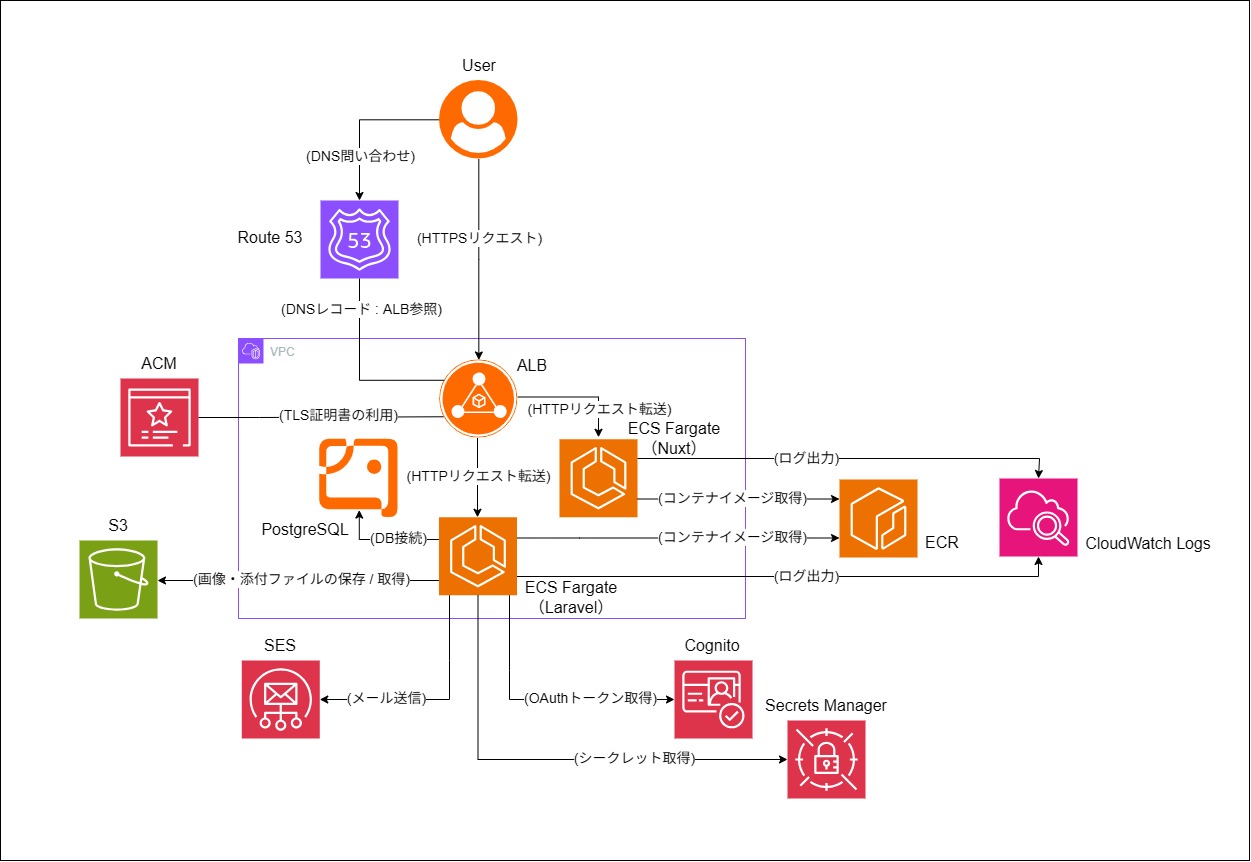
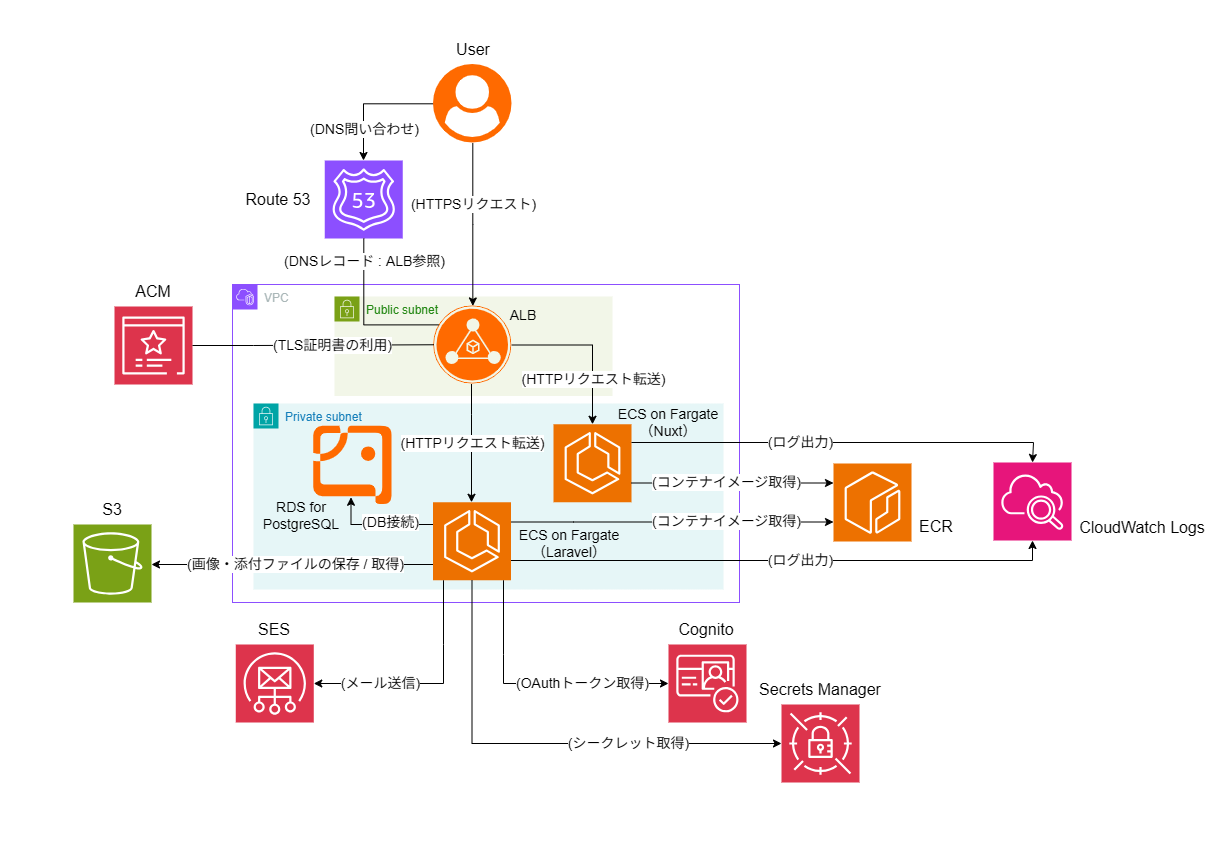
IaCおよびCI/CDに関する説明の追加

Changed region(s): [[0.0617, 0.0306, 0.9878, 0.9494], [0.9878, 0.98, 1.0, 1.0]]

diff --git a/README.md b/README.md
@@ -8,6 +8,8 @@
 - [主要機能](#主要機能)
 - [技術スタック](#技術スタック)
 - [AWSアーキテクチャ](#AWSアーキテクチャ)
+- [TerraformによるIaC化](#TerraformによるIaC化)
+- [CI/CDパイプライン](#CI/CDパイプライン)
 - [セットアップ](#セットアップ)
 - [テスト](#テスト)
 - [ドキュメント](#ドキュメント)
@@ -144,7 +146,7 @@
 |------|------|
 | フロントエンド | Nuxt 4 / Vue 3 / TypeScript / SCSS |
 | バックエンド | Laravel 13 / PHP 8.3 |
-| データベース | PostgreSQL / Amazon RDS for PostgreSQL |
+| データベース | Amazon RDS for PostgreSQL |
 | 認証 | Amazon Cognito |
 | リアルタイム同期 | Laravel Reverb / Laravel Echo / Pusher JS |
 | 実行環境 | Node.js 22 / nginx / PHP-FPM |
@@ -152,6 +154,8 @@
 | コンテナレジストリ | Amazon ECR |
 | コンピューティング | Amazon ECS / AWS Fargate |
 | ネットワーク | Amazon VPC / Application Load Balancer |
+| IaC | Terraform |
+| CI / CD | GitHub Actions |
 | DNS | Amazon Route 53 |
 | 証明書 | AWS Certificate Manager |
 | ストレージ | Amazon S3 |
@@ -159,12 +163,175 @@
 | ログ管理 | Amazon CloudWatch Logs |
 | メール配信 | Amazon SES |
 
-
 ---
 
 ## AWSアーキテクチャ
 
 ![AWSアーキテクチャ](_docs/images/aws-architecture.png)
+
+### 設計上のポイント
+
+<table>
+  <thead>
+    <tr>
+      <th>分類</th>
+      <th>設計内容</th>
+      <th>設計理由</th>
+    </tr>
+  </thead>
+  <tbody>
+    <tr>
+      <td rowspan="3">ネットワーク設計</td>
+      <td>VPC 内にパブリックサブネットと<br>プライベートサブネットを配置</td>
+      <td>インターネットからのアクセス経路と<br>内部リソースへの通信経路を分離するため</td>
+    </tr>
+    <tr>
+      <td>パブリックサブネットとプライベートサブネットを<br>2つの AZ に分散</td>
+      <td>単一 AZ の障害による影響を軽減するため</td>
+    </tr>
+    <tr>
+      <td>ALB で HTTPS 通信を受け付け、<br>HTTP 通信は HTTPS にリダイレクト</td>
+      <td>通信を暗号化して<br>安全にアプリケーションへアクセスできるようにするため</td>
+    </tr>
+    <tr>
+      <td rowspan="3">アプリケーション構成</td>
+      <td>Nuxt（フロントエンド）と<br>Laravel（バックエンド）を分離</td>
+      <td>フロントエンドとバックエンドを<br>独立して管理・デプロイできるようにするため</td>
+    </tr>
+    <tr>
+      <td>ECS Fargate でコンテナを実行</td>
+      <td>EC2 インスタンスの管理負担を抑えながら<br>コンテナを実行するため</td>
+    </tr>
+    <tr>
+      <td>ECR でコンテナイメージを管理</td>
+      <td>コンテナイメージを一元管理して<br>ECS へのデプロイに利用するため</td>
+    </tr>
+    <tr>
+      <td rowspan="2">データ管理</td>
+      <td>RDS for PostgreSQL によるデータ管理</td>
+      <td>マネージドサービスを利用して<br>データベースの運用負担を軽減するため</td>
+    </tr>
+    <tr>
+      <td>S3 による画像・添付ファイルの管理</td>
+      <td>画像および添付ファイルを<br>データベースとは分離して管理するため</td>
+    </tr>
+    <tr>
+      <td rowspan="2">認証・認可</td>
+      <td>Amazon Cognito によるユーザー認証</td>
+      <td>ユーザー認証をマネージドサービスに委任して<br>認証機能の実装・運用負担を軽減するため</td>
+    </tr>
+    <tr>
+      <td>Laravel による組織・メンバーシップに基づく認可</td>
+      <td>アプリケーション固有の権限や<br>組織単位のアクセス制御を実現するため</td>
+    </tr>
+    <tr>
+      <td rowspan="5">セキュリティ</td>
+      <td>HTTPS 通信による<br>インターネット経由の通信暗号化</td>
+      <td>通信内容の盗聴や改ざんを防ぐため</td>
+    </tr>
+    <tr>
+      <td>IAM ロールによる<br>AWS リソースへのアクセス制御</td>
+      <td>必要な AWS リソースへのアクセス権限を付与して<br>認証情報を直接管理する必要をなくすため</td>
+    </tr>
+    <tr>
+      <td>Secrets Manager によるシークレット管理</td>
+      <td>認証情報などの機密情報を安全に管理するため</td>
+    </tr>
+    <tr>
+      <td>S3 のパブリックアクセスブロック</td>
+      <td>保存したファイルが意図せず外部公開されることを防ぐため</td>
+    </tr>
+    <tr>
+      <td>SSE-S3 による S3 保存データの暗号化</td>
+      <td>保存データを暗号化して保護するため</td>
+    </tr>
+    <tr>
+      <td>リアルタイム通信</td>
+      <td>Laravel Reverb による WebSocket 通信</td>
+      <td>ユーザー間で更新情報をリアルタイムに共有するため</td>
+    </tr>
+    <tr>
+      <td rowspan="3">可用性設計</td>
+      <td>ALB を2つの AZ にまたがるサブネットに配置</td>
+      <td>単一 AZ の障害による ALB への影響を軽減するため</td>
+    </tr>
+    <tr>
+      <td>ECS はフロントエンド・バックエンドともに<br>各1タスクで運用</td>
+      <td>個人開発の規模に合わせて構成をシンプルに保ち<br>運用・コストの負担を抑えるため</td>
+    </tr>
+    <tr>
+      <td>RDS はシングル AZ 構成</td>
+      <td>マルチ AZ 構成と比較してコストを抑えるため</td>
+    </tr>
+    <tr>
+      <td rowspan="3">監視・データ保護</td>
+      <td>CloudWatch Logs による<br>アプリケーションログの管理</td>
+      <td>アプリケーションの動作状況やエラーを記録して<br>障害調査に利用するため</td>
+    </tr>
+    <tr>
+      <td>RDS の自動バックアップ</td>
+      <td>データベースの障害や誤操作に備え<br>バックアップから復元できるようにするため</td>
+    </tr>
+    <tr>
+      <td>S3 のバージョニング</td>
+      <td>画像および添付ファイルの上書き・削除が発生した場合に<br>過去のバージョンを復元できるようにするため</td>
+    </tr>
+  </tbody>
+</table>
+
+### セキュリティ設計
+
+<table>
+  <thead>
+    <tr>
+      <th>分類</th>
+      <th>内容</th>
+    </tr>
+  </thead>
+  <tbody>
+    <tr>
+      <td rowspan="5">認証・セッション管理</td>
+      <td>Amazon Cognito によるユーザー認証</td>
+    </tr>
+    <tr><td>Authorization Code Flow with PKCE による認証フローの保護</td></tr>
+    <tr><td>ID トークンの署名・クレーム検証</td></tr>
+    <tr><td>HttpOnly Cookie を利用したセッション管理</td></tr>
+    <tr><td>ログアウト時のトークン・セッション無効化</td></tr>
+    <tr>
+      <td rowspan="4">認可・マルチテナント分離</td>
+      <td>組織への所属確認に基づくアクセス制御</td>
+    </tr>
+    <tr><td>組織およびスペース単位でのリソースアクセス制御</td></tr>
+    <tr><td>担当者・ラベル・親子タスクなどの関連データの整合性検証</td></tr>
+    <tr><td>管理操作に対する権限確認</td></tr>
+    <tr>
+      <td rowspan="2">通信・本番設定の保護</td>
+      <td>HTTPS・Cookie・CORS などの本番環境向け設定の検証</td>
+    </tr>
+    <tr><td>本番環境での認証バイパス無効化チェック</td></tr>
+    <tr>
+      <td rowspan="4">ファイル保護</td>
+      <td>Amazon S3 でのファイル保存</td>
+    </tr>
+    <tr><td>アクセス権限の検証</td></tr>
+    <tr><td>アップロード時のファイルサイズ・拡張子の制限</td></tr>
+    <tr><td>ダウンロード時のレスポンスヘッダーによる保護</td></tr>
+  </tbody>
+</table>
+
+## Terraform による IaC 化
+
+Terraform を使用して AWS リソースをコード化し、インフラ構成をコードで管理できるようにしています。
+
+IaC 化により、インフラ構成の変更履歴を管理できるほか、コードに基づいた環境の再構築が可能になります。
+
+## CI/CD パイプライン
+
+GitHub Actions を使用して、テスト・ビルド・Docker イメージの作成を自動化しています。
+
+ECR へのコンテナイメージの登録から ECS へのデプロイまでを含む CI/CD パイプラインを構築しています。
+
+これにより、アプリケーションの更新からデプロイまでの作業を自動化し、手動作業の削減とデプロイ手順の標準化を図っています。
 
 ---
 

diff --git a/_docs/architecture/realtime/sync.md b/_docs/architecture/realtime/sync.md
@@ -184,7 +184,6 @@ DB 更新後、コントローラが `SafeBroadcast::toOthers($event)` を呼び
 
 ## 関連ドキュメント
 
-- 本番環境変数: [`../../deploy/production-env.md`](../../deploy/production-env.md)
 - 意思決定ログ: [`../../decisions/realtime-sync.md`](../../decisions/realtime-sync.md)
 - ボード機能: [`../../application/features/board.md`](../../application/features/board.md)
 - WBS 機能: [`../../application/features/wbs.md`](../../application/features/wbs.md)

diff --git a/_docs/README.md b/_docs/README.md
@@ -40,9 +40,3 @@ API のルート一覧は `backend/routes/api.php`。
 
 - [リアルタイム同期に Laravel Reverb / Laravel Echo を採用](./decisions/realtime-sync.md)
 - [フロント基盤ライブラリと FE/BE 共有契約](./decisions/frontend-foundations.md)
-
-## deploy ディレクトリ
-
-**本番の環境変数**
-
-- [本番環境変数](./deploy/production-env.md)
